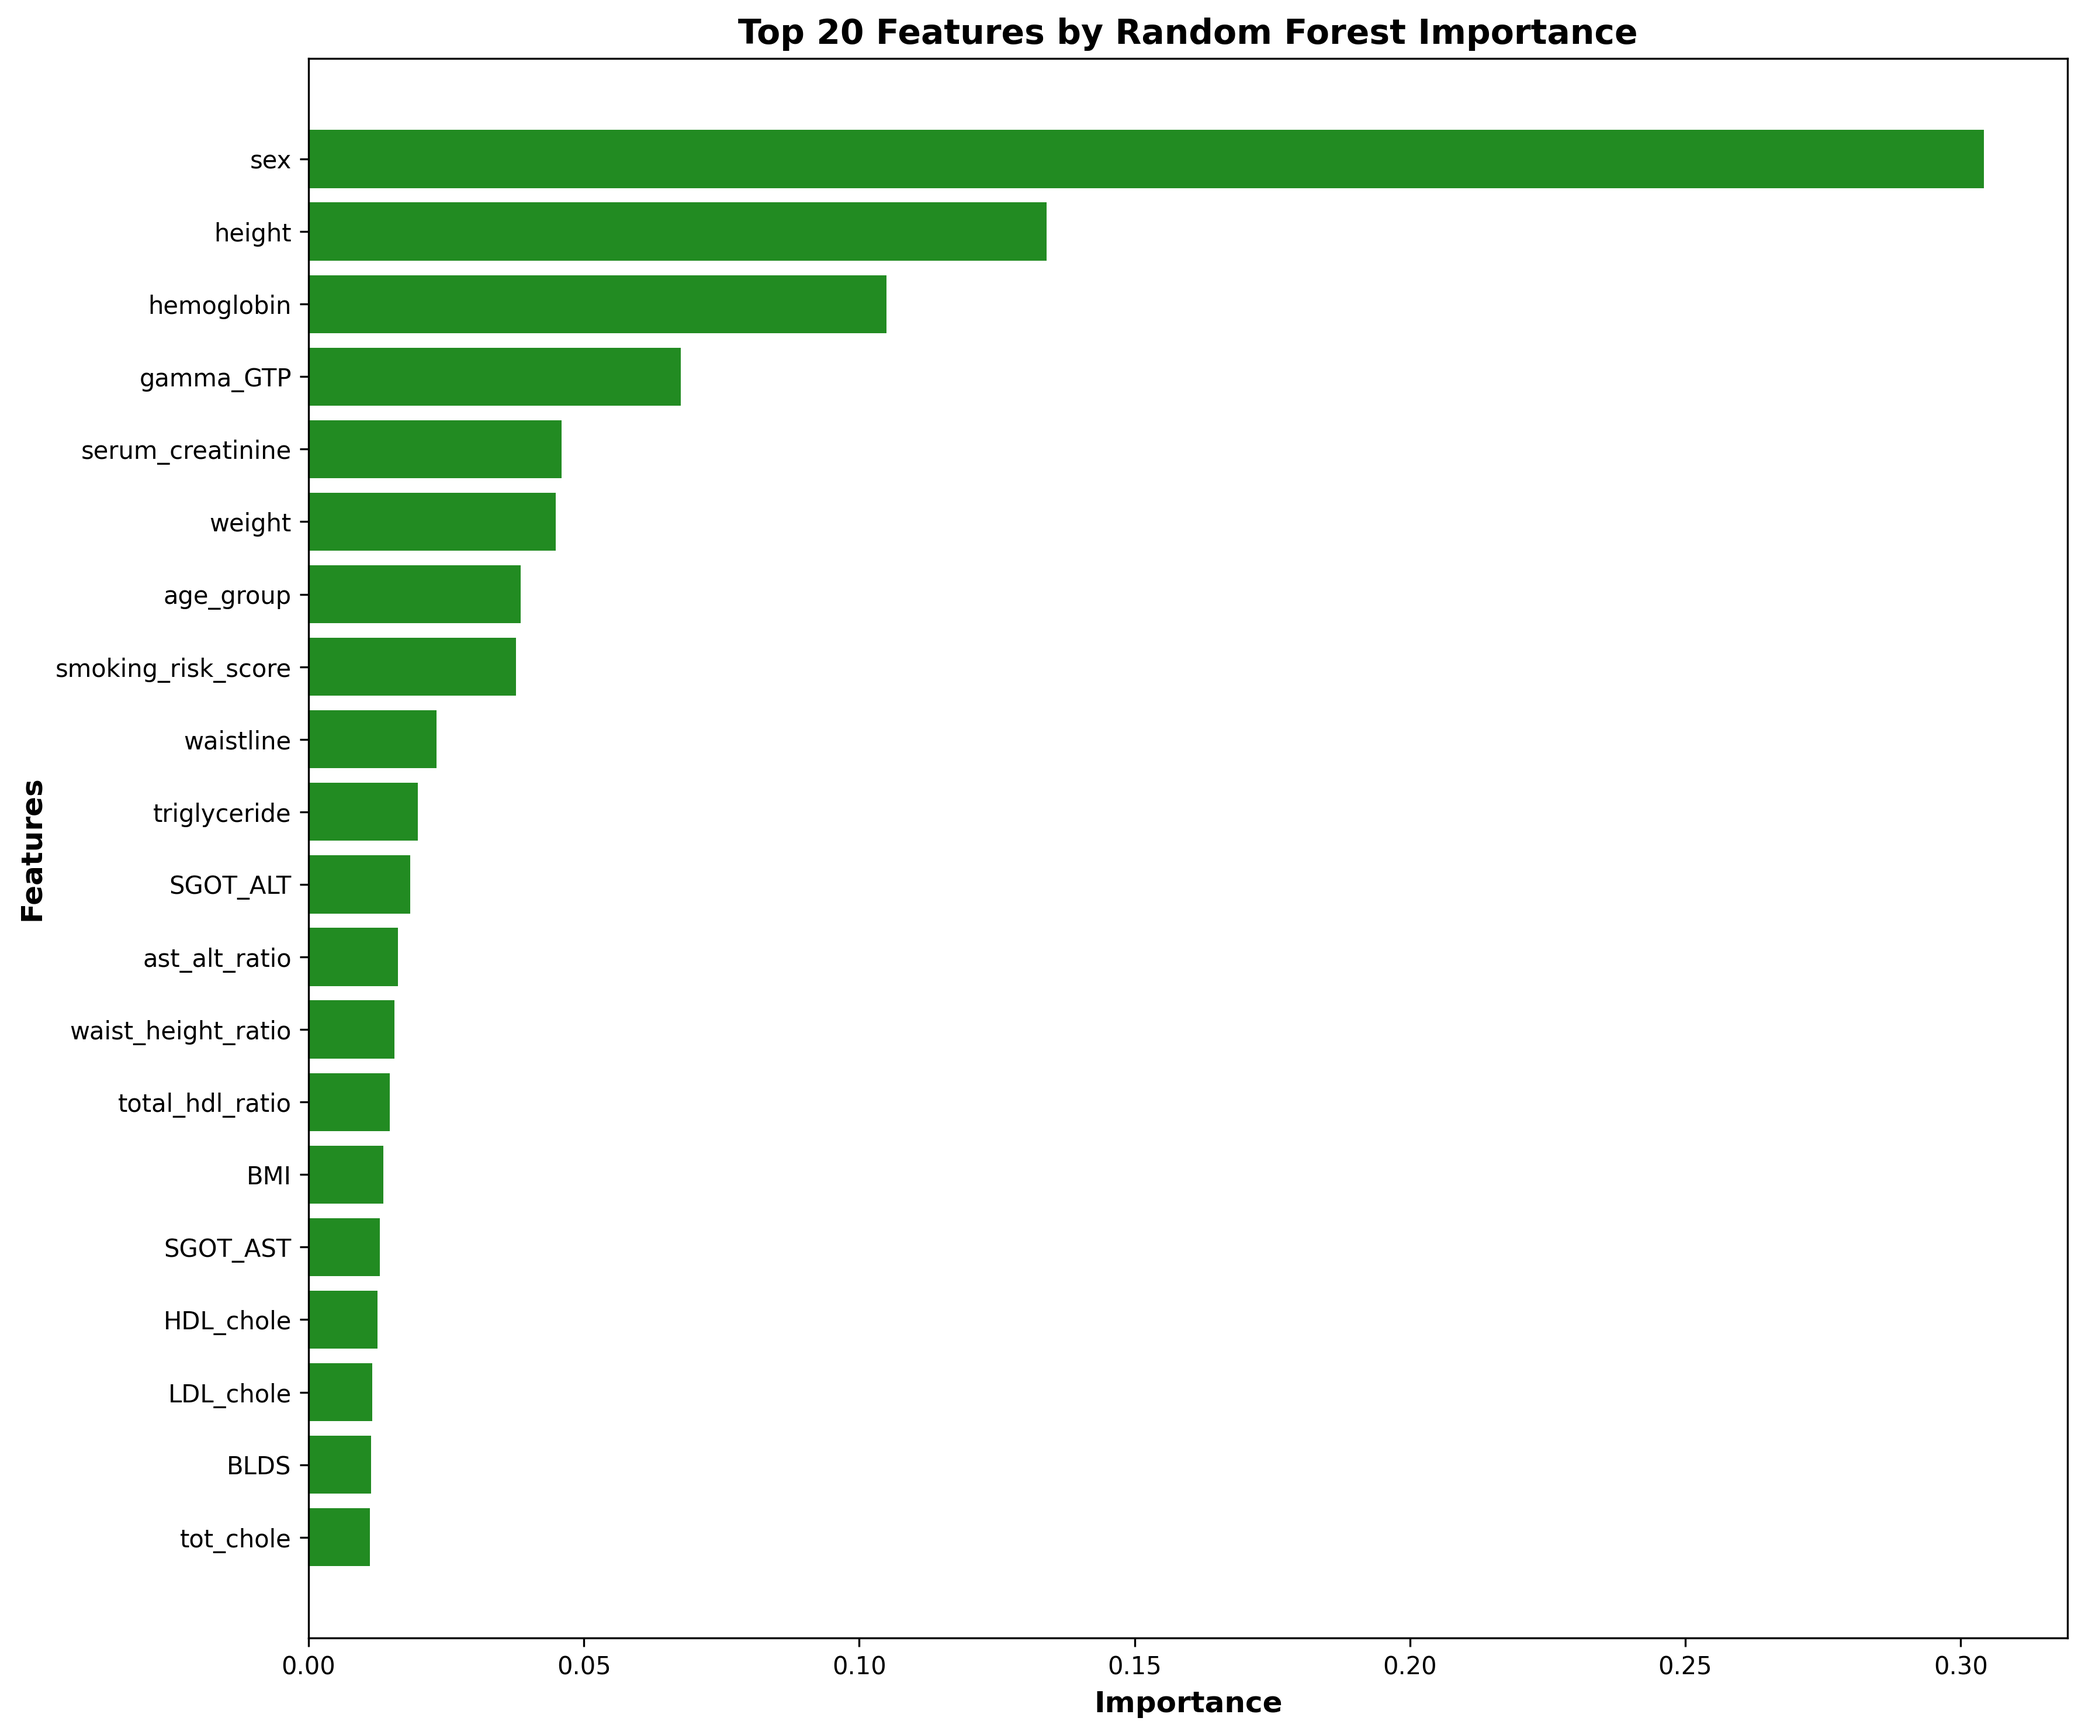
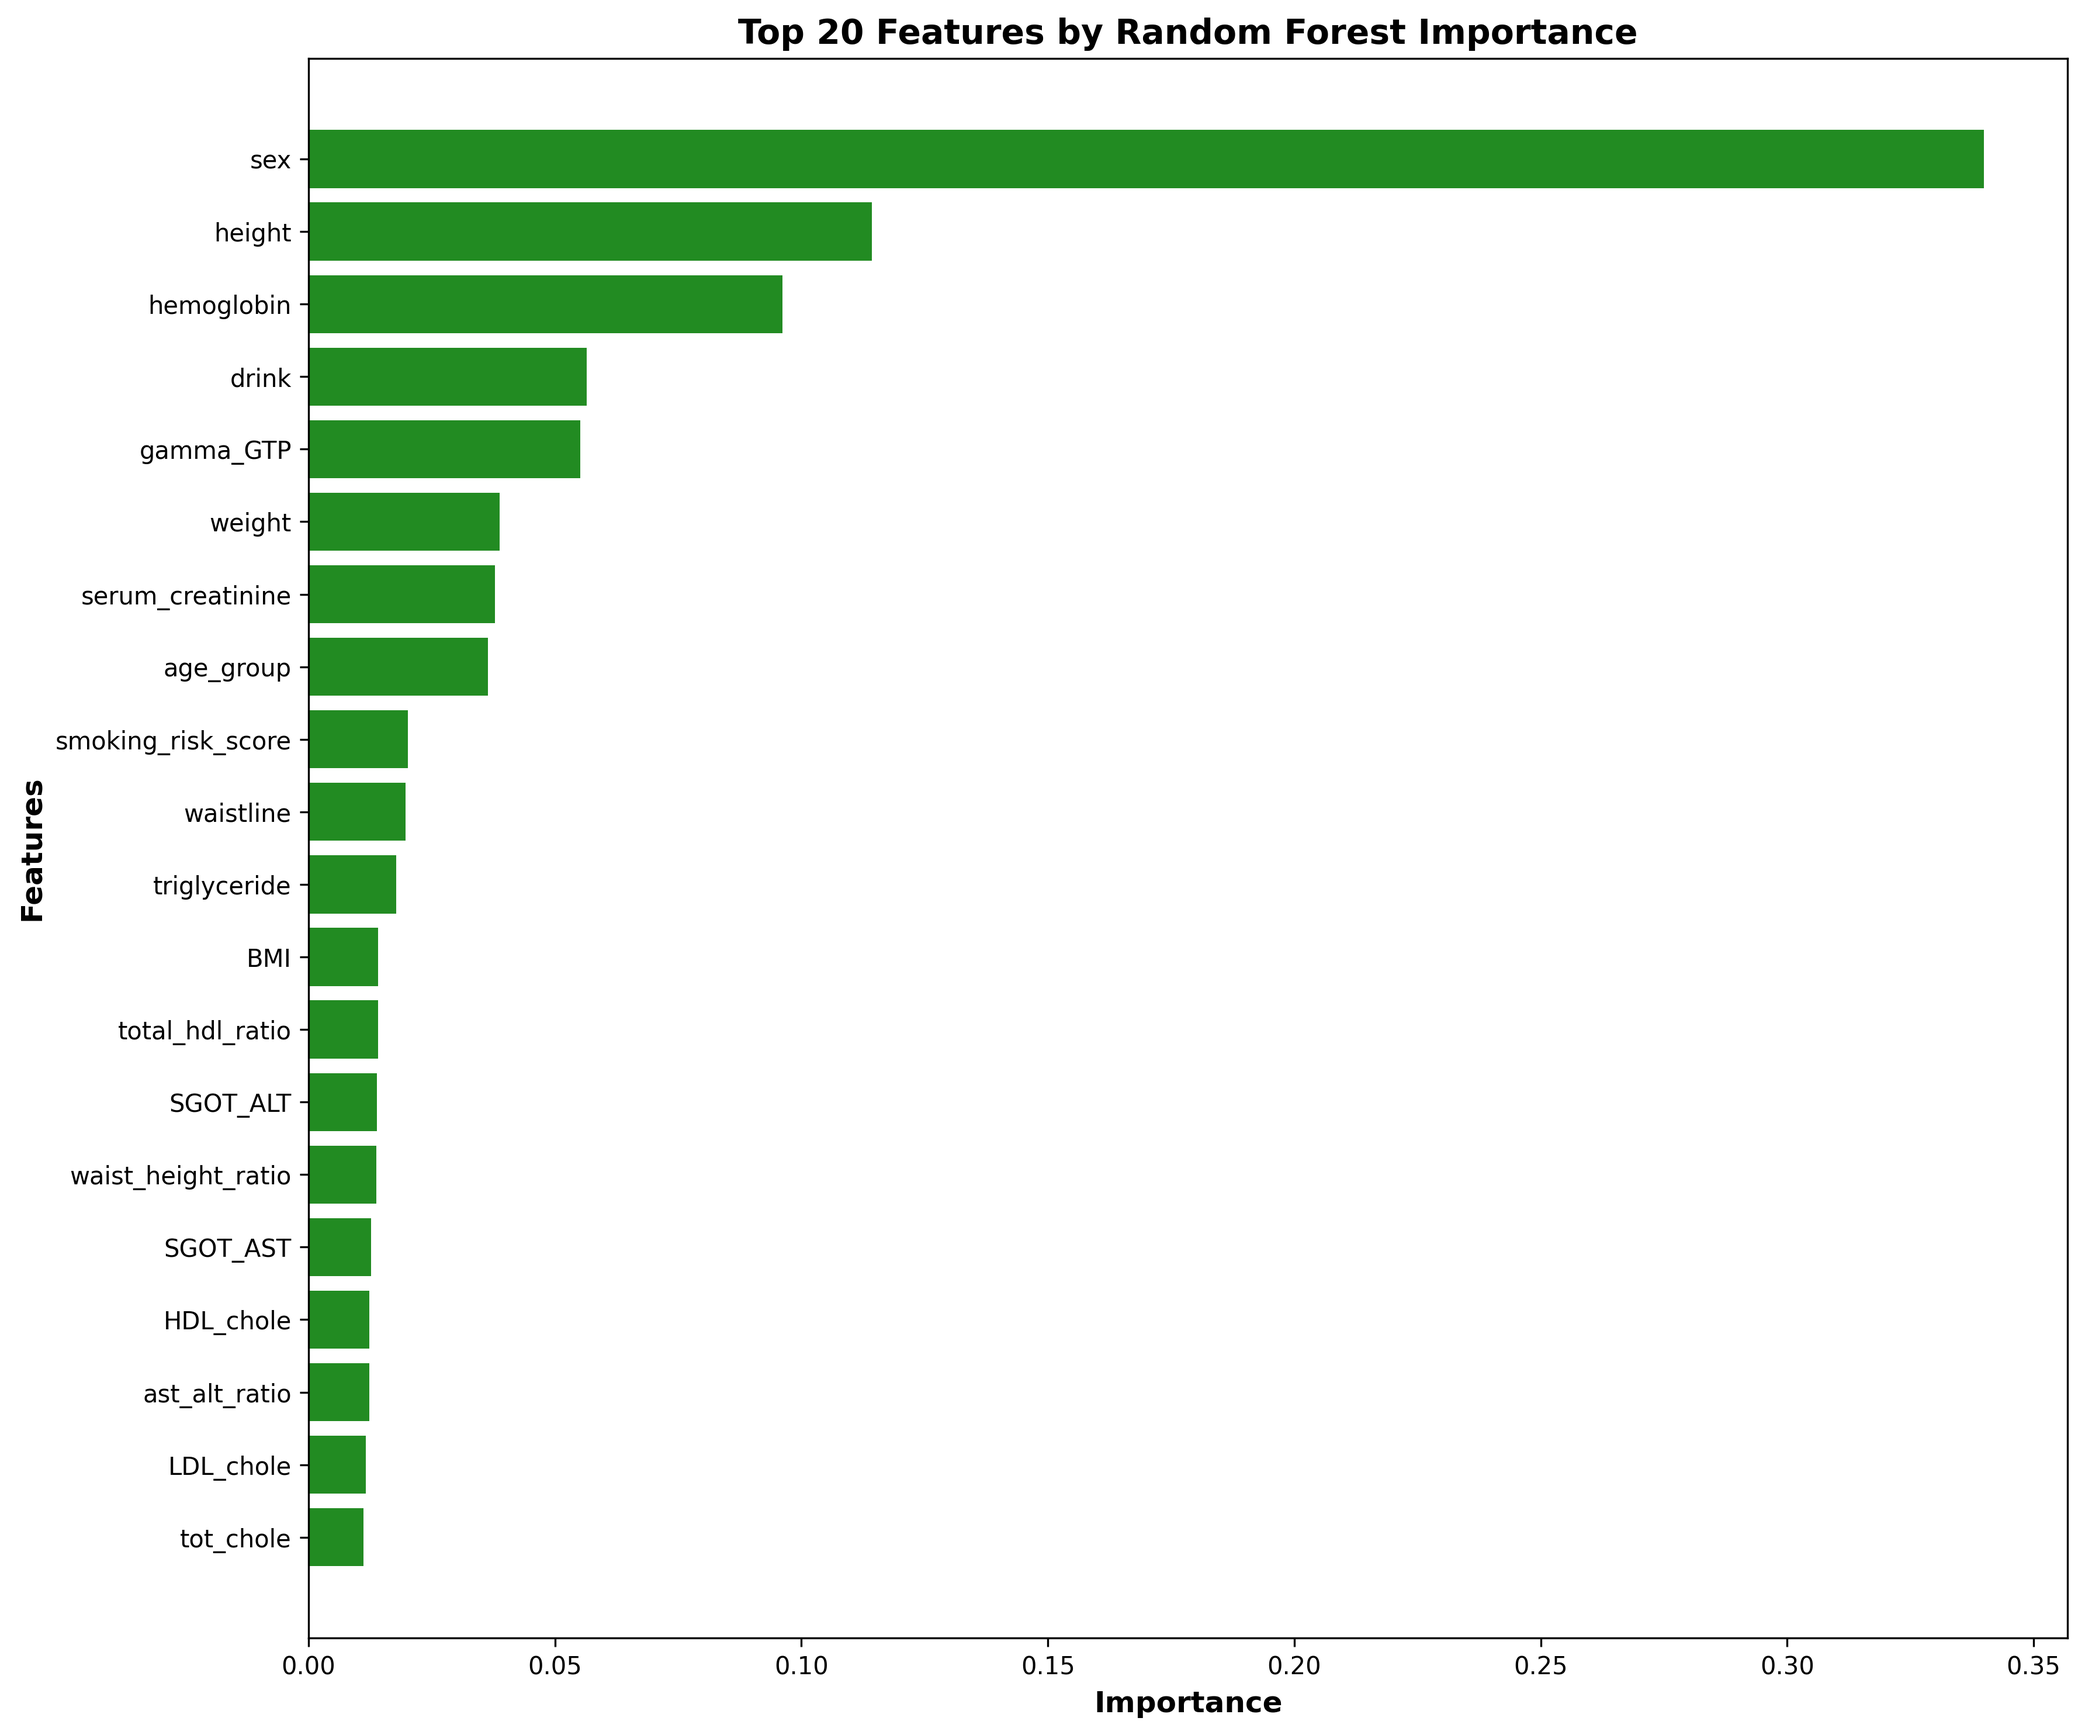
fix modells

diff --git a/competition/modells.py b/competition/modells.py
@@ -13,6 +13,10 @@ from sklearn.tree import DecisionTreeClassifier
 from sklearn.ensemble import RandomForestClassifier
 from sklearn.neural_network import MLPClassifier
 
+# ==== NEW: timing & plots ====
+import time
+import matplotlib.pyplot as plt
+
 
 # =========================
 # 1) FILER (tilpass stier hvis nødvendig)
@@ -25,7 +29,6 @@ Y_TEST_PATH  = f"{DATA_DIR}/y_test.csv"
 
 TARGET = "SMK_stat_type_cd"
 ID_COL = "id"
-DROP_IF_EXISTS = ["drink"]  # om den finnes
 
 # =========================
 # 2) LAST OG ALIGN PÅ id
@@ -47,9 +50,6 @@ def load_and_align(x_path, y_path):
     common_ids = X.index.intersection(y.index)
     X = X.loc[common_ids].copy()
     y = y.loc[common_ids].copy()
-
-    # Fjern ev. uønskede kolonner
-    X.drop(columns=[c for c in DROP_IF_EXISTS if c in X.columns], inplace=True, errors="ignore")
 
     # Sørg for numeriske typer på features
     X = X.astype(np.float32, errors="ignore")
@@ -130,6 +130,37 @@ models = {
     "NeuralNetwork": nn,
 }
 
+# ==== NEW: complexity helper ====
+def _final_estimator(model):
+    return model.named_steps["clf"] if isinstance(model, Pipeline) else model
+
+def model_complexity(model):
+    est = _final_estimator(model)
+    try:
+        if isinstance(est, LogisticRegression):
+            n_params = est.coef_.size + est.intercept_.size
+            return f"LR: classes={getattr(est, 'n_classes_', 'NA')}, params={n_params}"
+        if isinstance(est, GaussianNB):
+            n_classes = getattr(est, 'classes_', [])
+            n_features = getattr(est, 'theta_', np.empty((0,0))).shape[1] if hasattr(est, 'theta_') else 'NA'
+            return f"GNB: classes={len(n_classes)}, features={n_features}"
+        if isinstance(est, DecisionTreeClassifier):
+            return f"DT: depth={est.get_depth()}, nodes={est.tree_.node_count}"
+        if isinstance(est, RandomForestClassifier):
+            depths = [t.get_depth() for t in est.estimators_]
+            nodes  = [t.tree_.node_count for t in est.estimators_]
+            return f"RF: trees={len(est.estimators_)}, avg_depth={np.mean(depths):.1f}, avg_nodes={np.mean(nodes):.0f}"
+        if isinstance(est, MLPClassifier):
+            # antall parametre = sum(|W| + |b|)
+            total_params = 0
+            for w, b in zip(est.coefs_, est.intercepts_):
+                total_params += w.size + b.size
+            arch = [w.shape[0] for w in est.coefs_] + [est.coefs_[-1].shape[1]] if est.coefs_ else []
+            return f"MLP: layers={arch}, params={total_params}"
+    except Exception as e:
+        return f"complexity=NA ({e})"
+    return "complexity=NA"
+
 # =========================
 # 4) TREN & EVALUER (kun pre-splittet train/test)
 # =========================
@@ -143,20 +174,35 @@ def evaluate(name, model, Xtr, ytr, Xte, yte):
     if name in ["LogisticRegression", "NaiveBayes", "NeuralNetwork"]:
         sw = compute_sample_weight(class_weight="balanced", y=ytr)
 
-    # Fit (legg merke til at sample_weight i Pipeline må rutes til siste steg-navn 'clf')
+    # ==== NEW: time training ====
+    t0 = time.time()
     if sw is not None:
         model.fit(Xtr, ytr, clf__sample_weight=sw)
     else:
         model.fit(Xtr, ytr)
+    train_time = time.time() - t0
 
-    # Evaluer på test
+    # ==== NEW: time prediction ====
+    t1 = time.time()
     y_pred = model.predict(Xte)
+    pred_time = time.time() - t1
+
     acc = accuracy_score(yte, y_pred)
     f1m = f1_score(yte, y_pred, average="macro")
-    print(f"TEST -> Acc: {acc:.3f} | Macro-F1: {f1m:.3f}")
+    print(f"TEST -> Acc: {acc:.3f} | Macro-F1: {f1m:.3f} | Train_s: {train_time:.2f} | Predict_s: {pred_time:.2f}")
     print(classification_report(yte, y_pred, digits=3))
 
-    summary.append({"Model": name, "Test_Acc": acc, "Test_MacroF1": f1m})
+    # ==== NEW: complexity string ====
+    cx = model_complexity(model)
+
+    summary.append({
+        "Model": name,
+        "Test_Acc": acc,
+        "Test_MacroF1": f1m,
+        "Train_Time_s": train_time,
+        "Predict_Time_s": pred_time,
+        "Complexity": cx
+    })
 
 for name, model in models.items():
     evaluate(name, model, X_train, y_train, X_test, y_test)
@@ -170,3 +216,49 @@ print(summary_df.sort_values("Test_MacroF1", ascending=False).to_string(index=Fa
 
 summary_df.to_csv("model_summary_presplit.csv", index=False)
 print("\n📁 Lagret: model_summary_presplit.csv")
+
+# ==== NEW: simple visualizations ====
+try:
+    # Sort by Macro-F1 for plotting order
+    s = summary_df.sort_values("Test_MacroF1", ascending=False)
+
+    # 1) Ytelse (Accuracy & Macro-F1)
+    plt.figure(figsize=(8,5))
+    plt.bar(s["Model"], s["Test_Acc"])
+    plt.title("Test Accuracy by Model")
+    plt.ylabel("Accuracy")
+    plt.tight_layout()
+    plt.savefig("plot_test_accuracy.png", dpi=160)
+    # plt.show()
+
+    plt.figure(figsize=(8,5))
+    plt.bar(s["Model"], s["Test_MacroF1"])
+    plt.title("Test Macro-F1 by Model")
+    plt.ylabel("Macro-F1")
+    plt.tight_layout()
+    plt.savefig("plot_test_macrof1.png", dpi=160)
+    # plt.show()
+
+    # 2) Tidsbruk (train & predict)
+    plt.figure(figsize=(8,5))
+    plt.bar(s["Model"], s["Train_Time_s"])
+    plt.title("Training Time by Model (s)")
+    plt.ylabel("Seconds")
+    plt.tight_layout()
+    plt.savefig("plot_train_time.png", dpi=160)
+
+    plt.figure(figsize=(8,5))
+    plt.bar(s["Model"], s["Predict_Time_s"])
+    plt.title("Prediction Time by Model (s)")
+    plt.ylabel("Seconds")
+    plt.tight_layout()
+    plt.savefig("plot_predict_time.png", dpi=160)
+
+    print("🖼 Lagret figurer: plot_test_accuracy.png, plot_test_macrof1.png, plot_train_time.png, plot_predict_time.png")
+except Exception as e:
+    print(f"[WARN] Plotting skipped due to error: {e}")
+
+# ==== NEW: lag også en ren tabell med kun tall for rapport ====
+summary_df[["Model","Test_Acc","Test_MacroF1","Train_Time_s","Predict_Time_s","Complexity"]] \
+    .to_csv("model_summary_presplit_with_times.csv", index=False)
+print("📁 Lagret: model_summary_presplit_with_times.csv")

diff --git a/features/select_features.py b/features/select_features.py
@@ -32,7 +32,7 @@ print("Loading data after feature extraction...")
 df = pd.read_csv("datasets/feature_extracted_data.csv")
 
 # Separate features and target
-X = df.drop(["SMK_stat_type_cd", "drink"], axis=1)  # Drop target and drink
+X = df.drop(["SMK_stat_type_cd"], axis=1)  # Drop target
 y = df["SMK_stat_type_cd"]
 
 print(f"Dataset shape: {X.shape}")
@@ -644,13 +644,13 @@ print("✓ Saved preprocessed_data.csv (with selected features only)")
 print("\n" + "=" * 80)
 print("FEATURE SELECTION COMPLETE!")
 print("=" * 80)
-print(f"Original features: {df.drop(['SMK_stat_type_cd', 'drink'], axis=1).shape[1]}")
+print(f"Original features: {df.drop(['SMK_stat_type_cd'], axis=1).shape[1]}")
 print(f"After label encoding: {X.shape[1]}")
 print(f"After correlation removal: {X_no_corr.shape[1]}")
 print(f"Consensus threshold: ≥4 out of 5 methods (80% agreement)")
 print(f"Final selected features: {len(final_selected_features)}")
 print(
-    f"Reduction: {(1 - len(final_selected_features)/df.drop(['SMK_stat_type_cd', 'drink'], axis=1).shape[1])*100:.1f}%"
+    f"Reduction: {(1 - len(final_selected_features)/df.drop(['SMK_stat_type_cd'], axis=1).shape[1])*100:.1f}%"
 )
 print(f"\nFiles saved:")
 print(f"  • preprocessed_data.csv (ready for modeling)")
